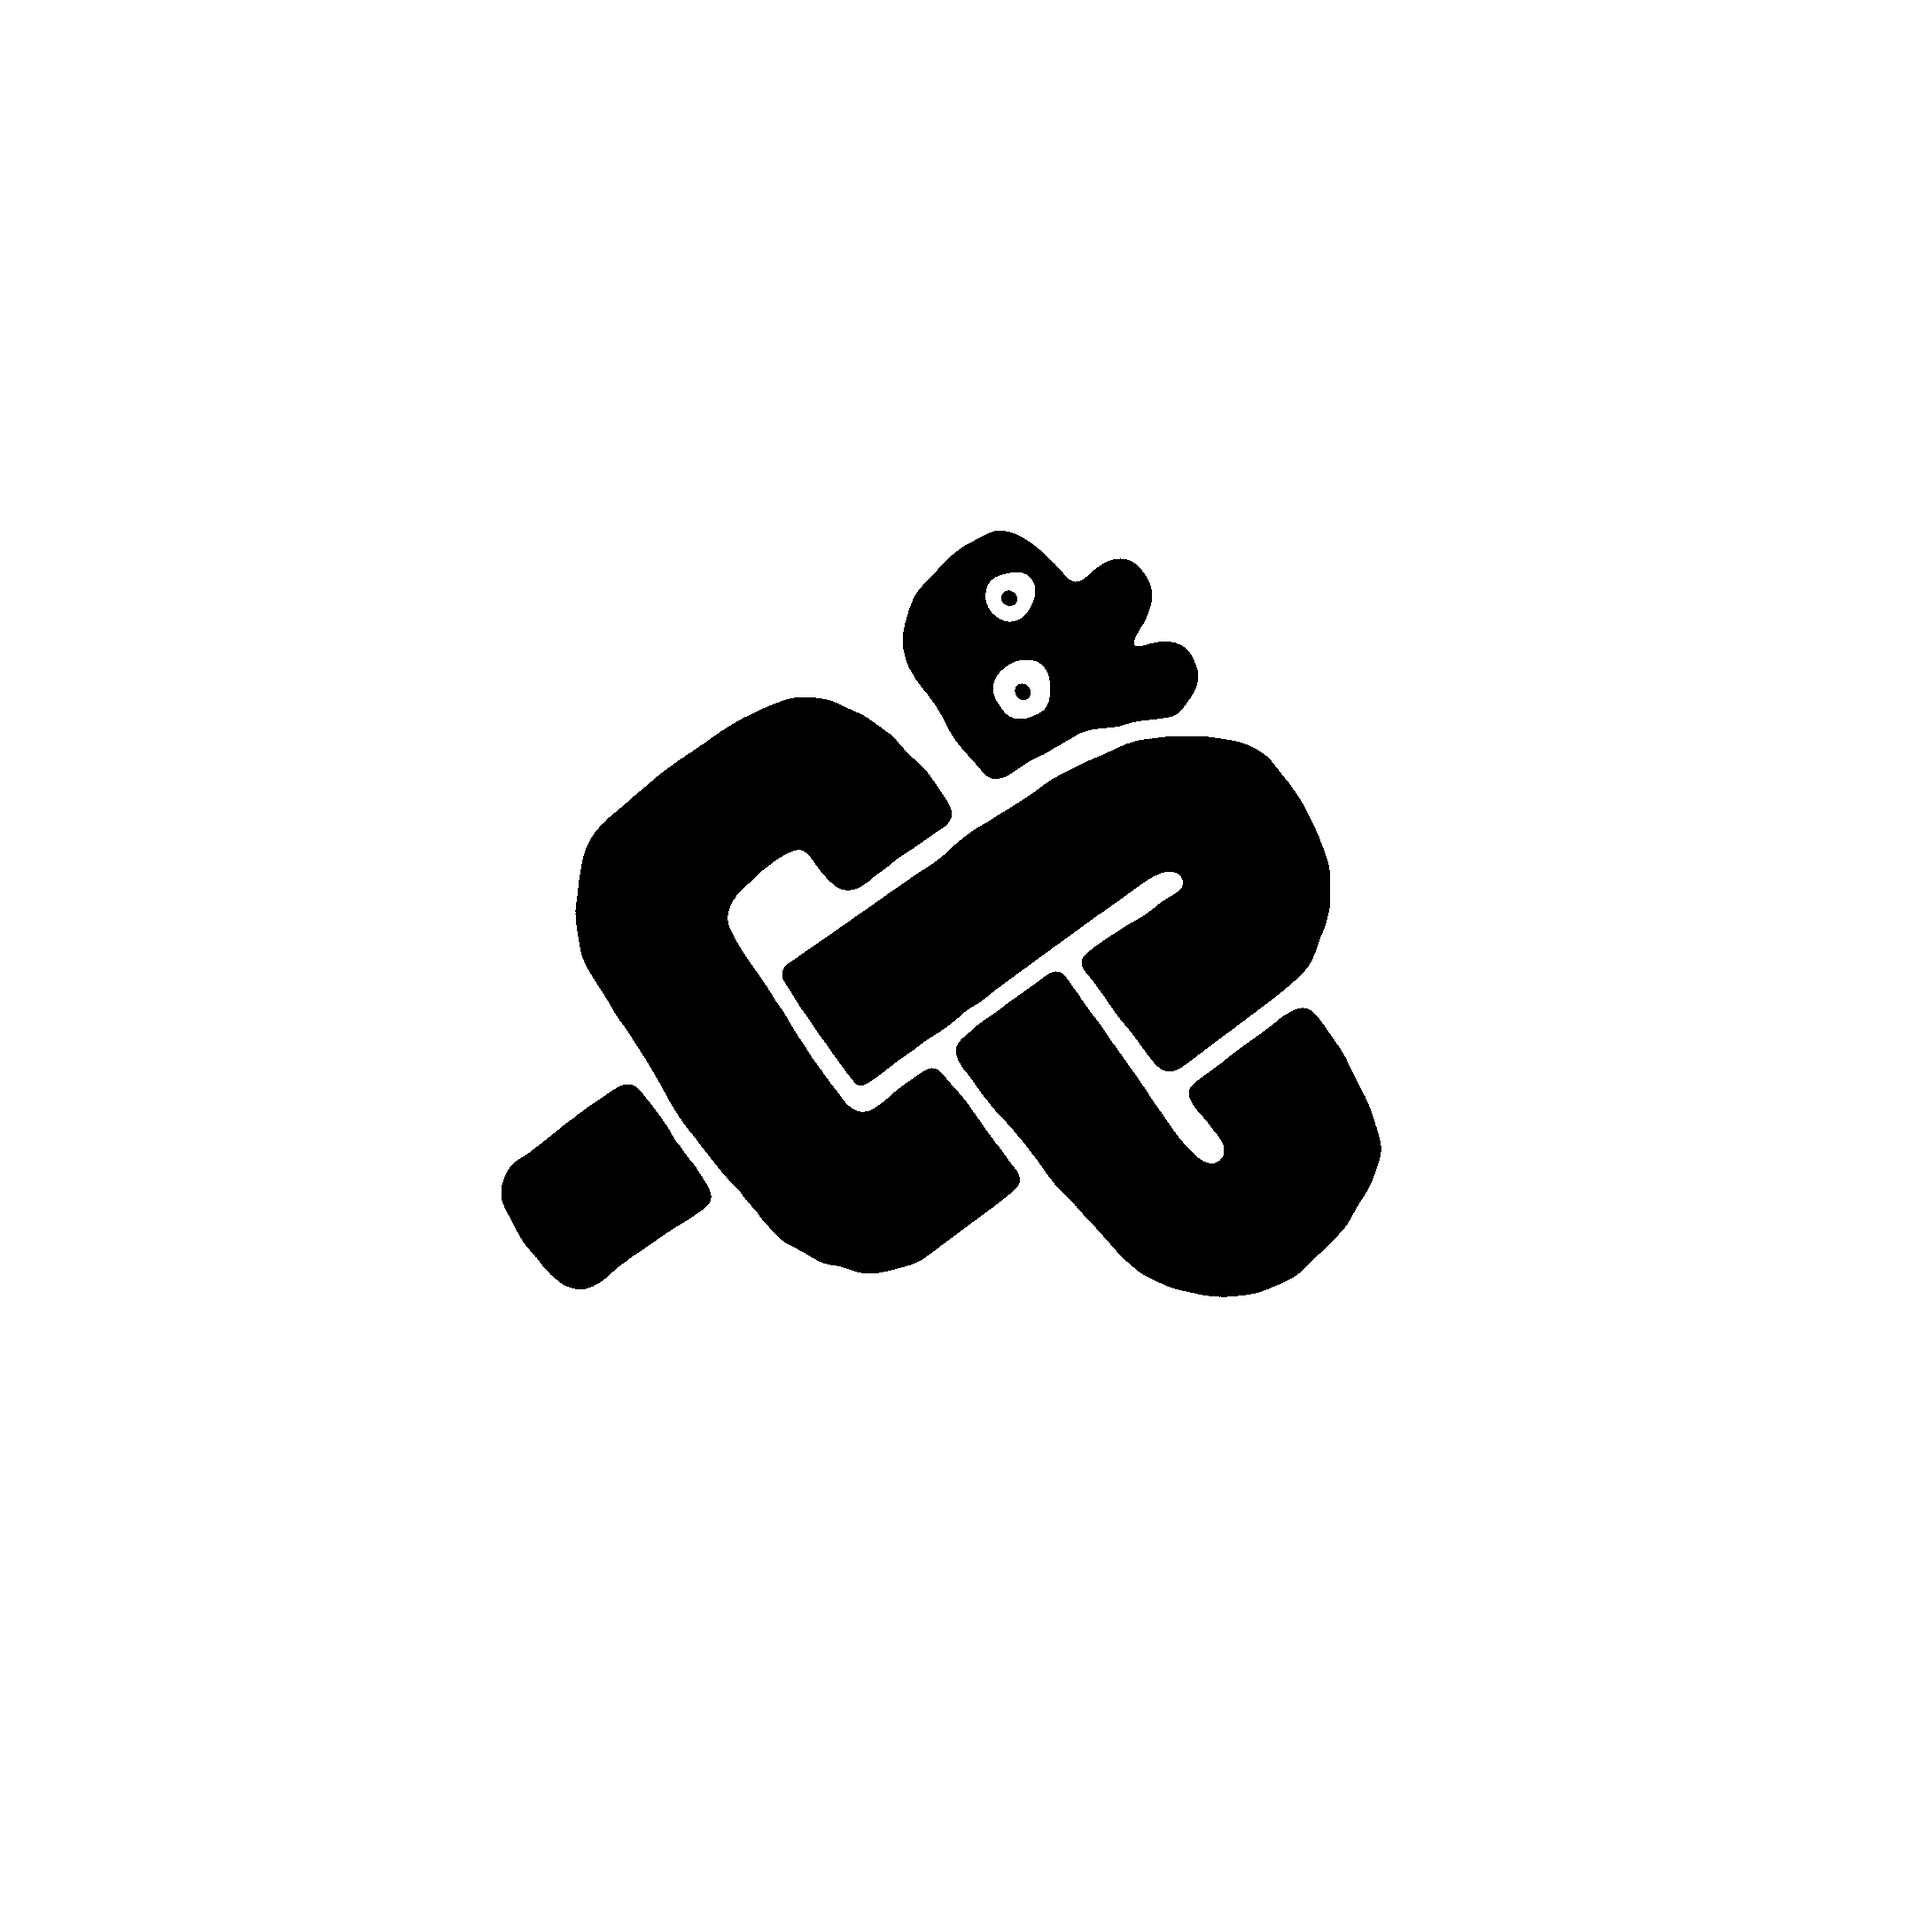
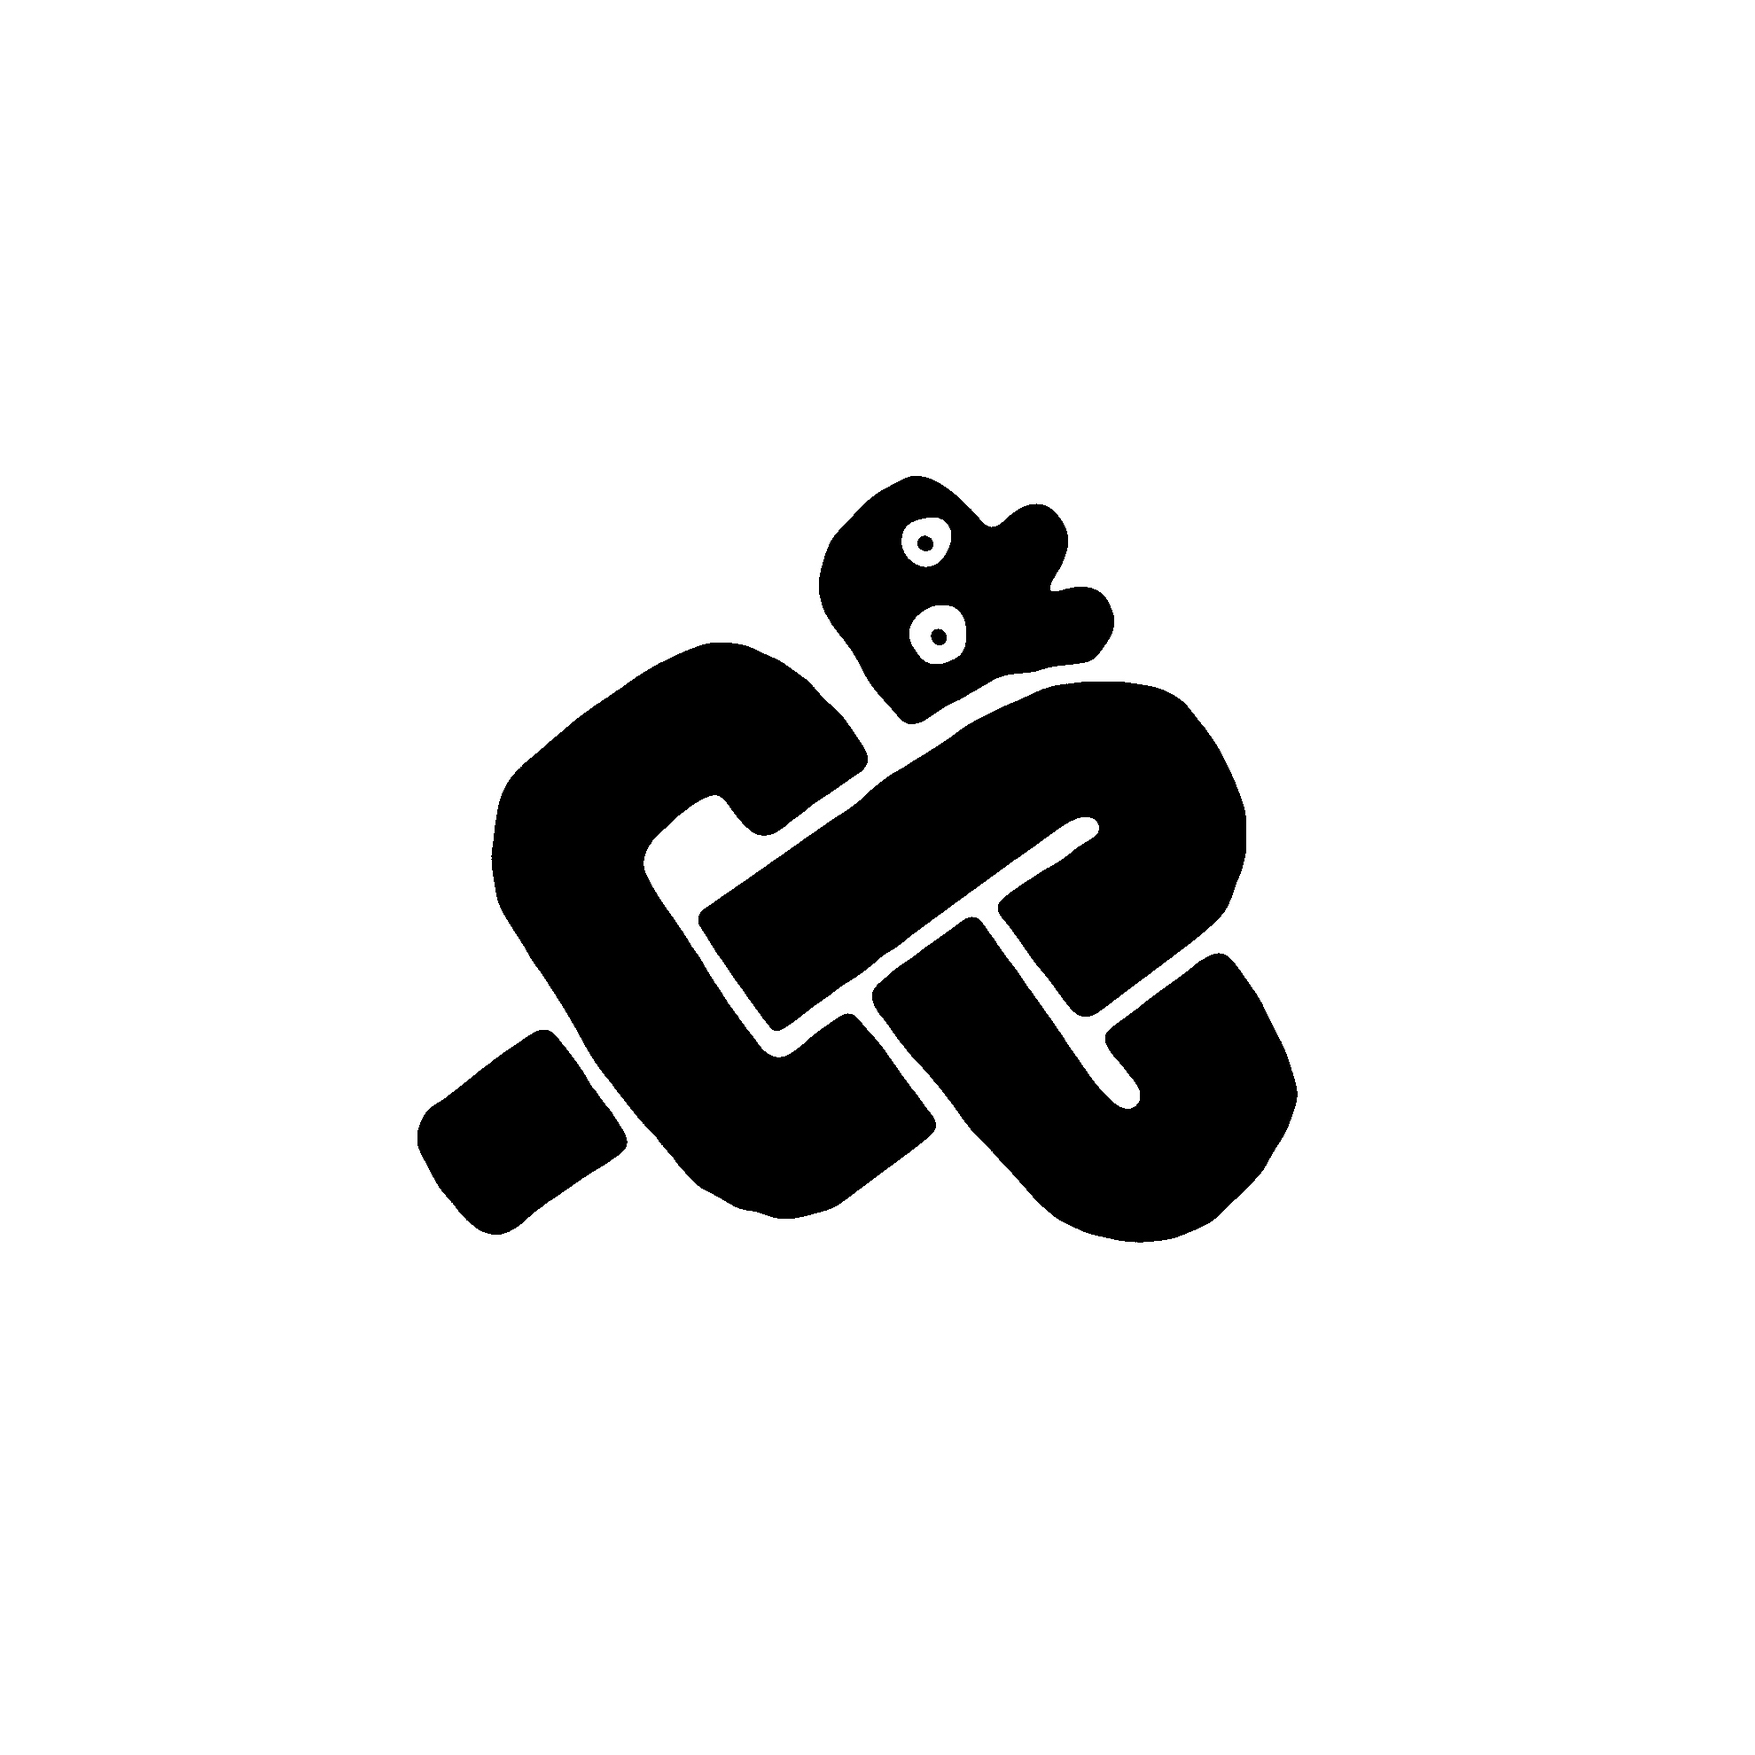
adding worms

Changed region(s): [[0.2157, 0.2773, 0.7394, 0.7086], [0.3389, 0.3697, 0.4005, 0.4005], [0.3081, 0.4005, 0.3389, 0.4313]]

diff --git a/script.js b/script.js
@@ -1,6 +1,57 @@
 const h6 = document.createElement('h6');
 h6.textContent = "Another One, Please";
 
+//const input = document.getElementById('input');
 
+const worm = document.querySelector('img');
 
 document.querySelector('body').appendChild(h6); 
+
+h6.addEventListener('click', function() {
+   // alert('In a sec, JEEZ!');
+    worm.src = "./images/worm9.jpg"
+    h6.textContent = "Mhm, And One More";
+    h6.addEventListener('click', function() {
+         worm.src = "./images/worm23.jpg"
+         h6.textContent = "Now Hold On";
+         
+            h6.addEventListener('click', function() {
+                worm.src = "./images/worm19.jpg"
+                h6.textContent = "...Worms";
+                h6.addEventListener('click', function() {
+                    worm.src = "./images/worm13.jpg"
+                    h6.textContent = "With Eyes...";
+                    h6.addEventListener('click', function() {
+                        worm.src = "./images/worm15.jpg"
+                        h6.textContent = "...And A Mouth...";
+                        h6.addEventListener('click', function() {
+                            worm.src = "./images/worm20.jpg"
+                            h6.textContent = "Or Is It A Rabbit?";
+                            h6.addEventListener('click', function() {
+                                worm.src = "./images/worm17.jpg"
+                                h6.textContent = "With Ears?";
+                                h6.addEventListener('click', function() {
+                                    worm.src = "./images/worm8.jpg"
+                                    h6.textContent = "And Also Eyes...";
+                                    h6.addEventListener('click', function() {
+                                        worm.src = "./images/worm18.jpg"
+                                        h6.textContent = "Nah...";
+                                        h6.addEventListener('click', function() {
+                                            worm.src = "./images/worm11.jpg"
+                                            h6.textContent = "It's A Worm";
+                                            h6.addEventListener('click', function() {
+                                                worm.src = "./images/worm26.jpg"
+                                                h6.textContent = "Just A Weird One.";
+                                              });
+                                          });
+                                      });
+                                  });
+                              });
+                          });
+                      });
+                  });
+            
+          });
+       });
+  });
+  

diff --git a/index.html b/index.html
@@ -11,7 +11,7 @@
     <h1>Worms</h1>
     <h2>With Eyes And A Mouth</h2>
     <div>
-    <img src= "worm12.jpg "> 
+    <img src= "./images/worm12.jpg"> 
     </div>
     <script src="script.js"></script> 
     </body>
